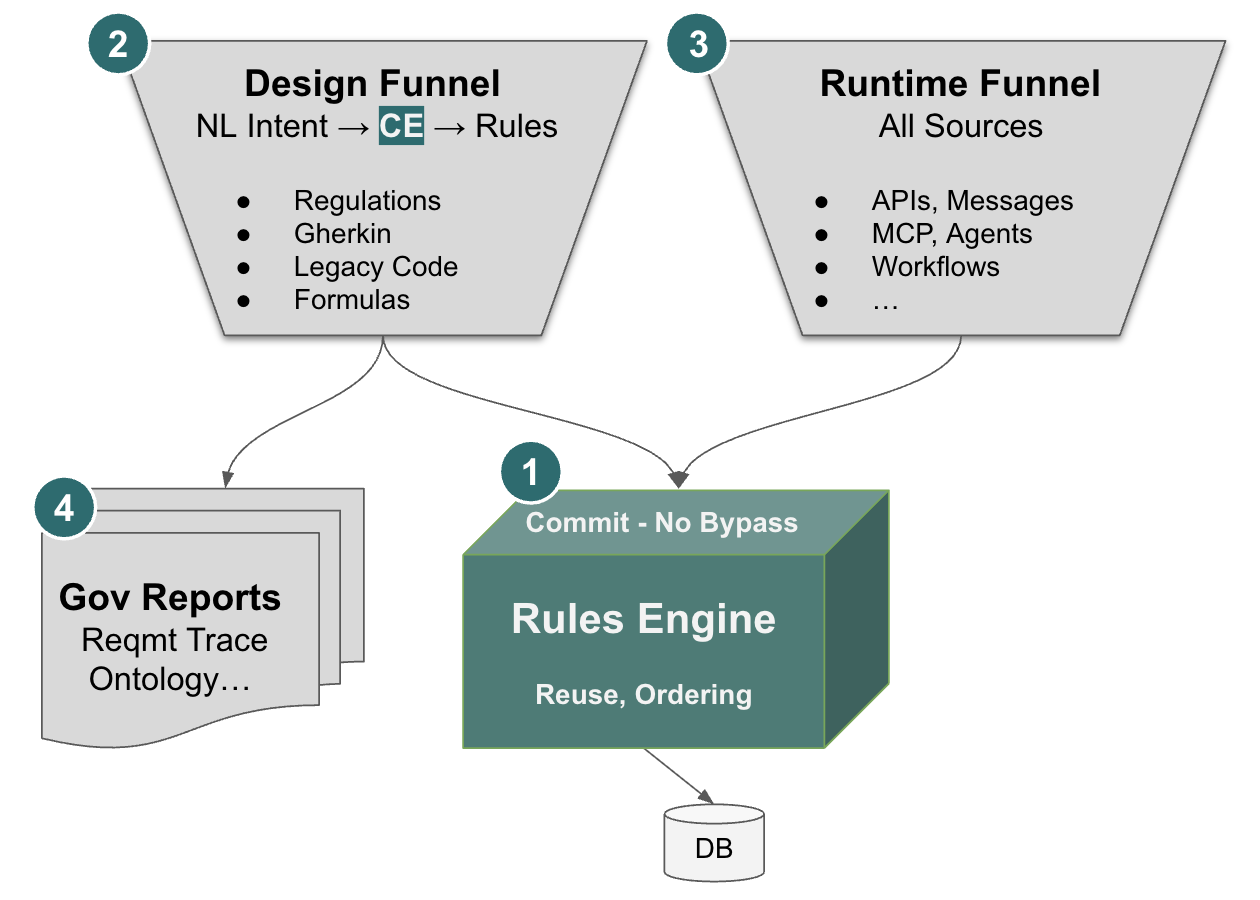
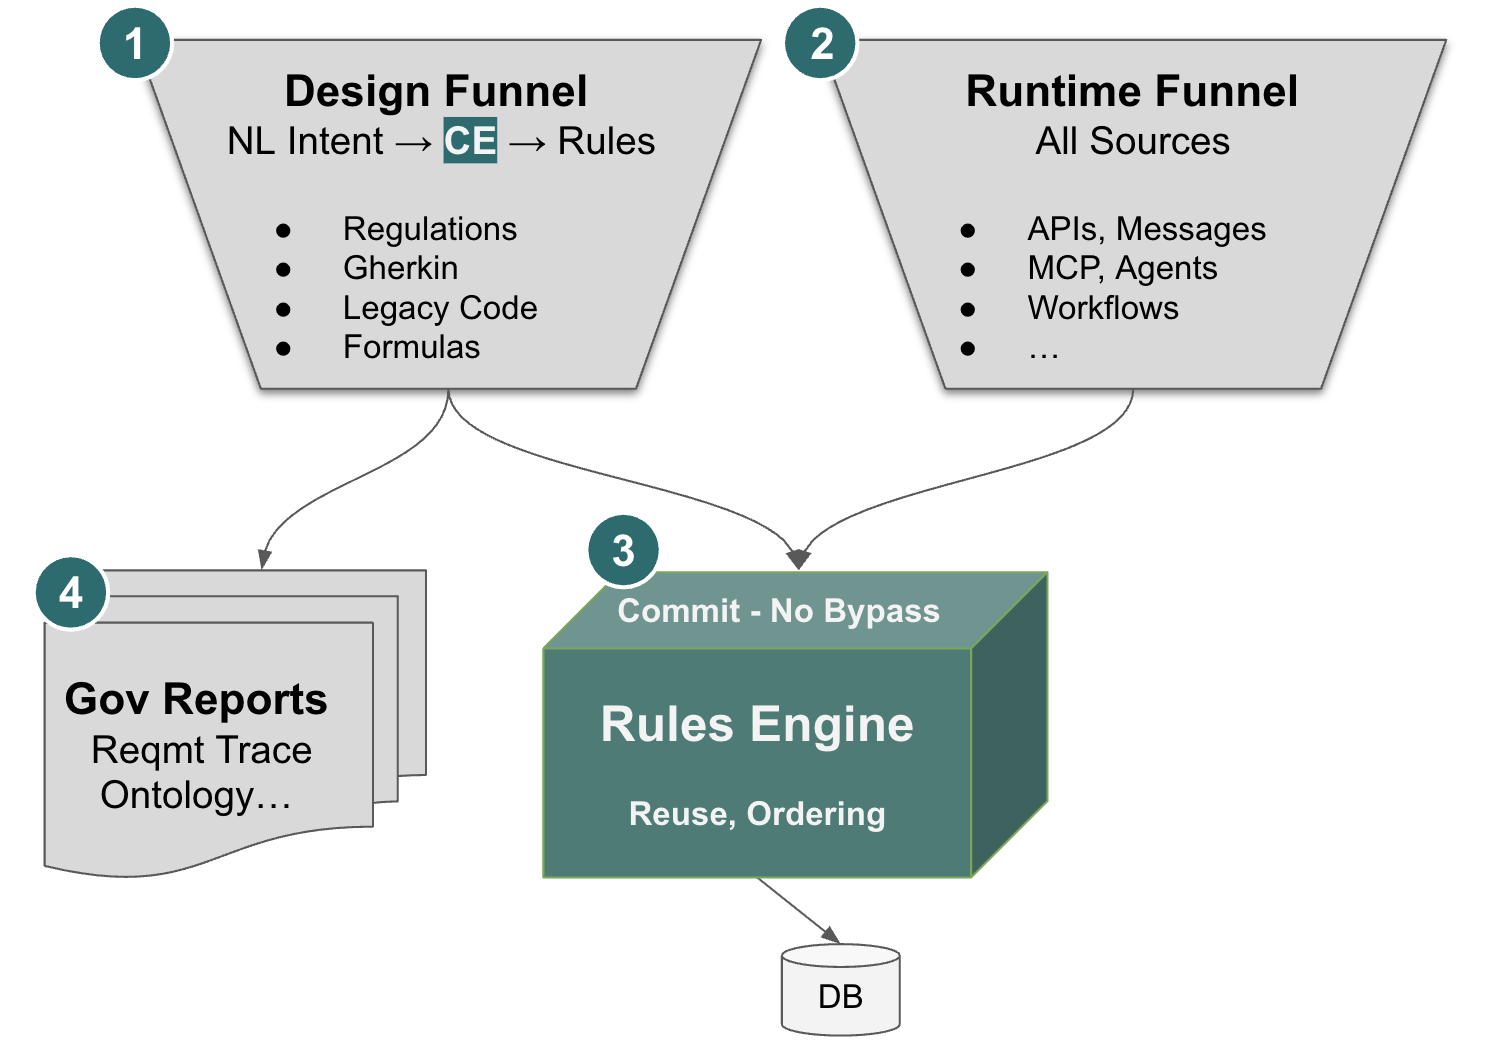
link to Tech-RPT, BU initiatives/backlog

diff --git a/docs/Tech-Architects.md b/docs/Tech-Architects.md
@@ -12,11 +12,17 @@ Description: Briefing
 
 !!! pied-piper ":robot: GenAI-Logic - Architecture Brief"
 
-    AI is remarkable at generating code, but the [generated code **is hard to read and trust**](Manager-readme.md#ai-alone){:target="_blank" rel="noopener"}.  How can you govern what you can't read?
+    AI is remarkable at generating code, but you're left without clarity on what to govern:
+    
+    * the requirements are incomplete.  AI completed them probabilistically - with guesses you never see.
+    * the generated code **is hard to read and trust**.  How can you govern what you can't read?
 
-    Our core focus is to leverage AI intent capture, but provide ***governance*** by directing it to create enterprise-class systems you can **read, trust and maintain**.
+    Our core focus is to leverage AI intent capture, extended to provide ***governance:***
+    
+    > Context Engineering (CE) to create enterprise-class systems based on **rules** you can **read, trust and maintain**.
 
-    See the full article: [What Did the AI Build?](Tech-RTP.md){:target="_blank" rel="noopener"}.
+    See the full background: [What Did AI Build?](Tech-RTP.md){:target="_blank" rel="noopener"}
+
 
 <br>
 
@@ -24,10 +30,11 @@ Description: Briefing
 
 **Two funnels, meeting at the rules:** 
 
-* vritually any form of intent becomes rules (2), 
-* every transaction source (3) is governed by them,
-* by a commit funnel, which rules automatically orders and re-uses logic for all paths (1), where 
-* the same rules drive governance reports (4).
+1. virtually any form of intent becomes rules, 
+2. every transaction source is governed by them,
+3. by a commit funnel that executes automatically ordered, reused rules over all paths,
+4. while the same rules drive the governance reports.
+
 
 More in [Governance by Architecture](Tech-Gov-By-Arch.md#two-funnels-meeting-at-the-rules){:target="_blank" rel="noopener"}.
 
